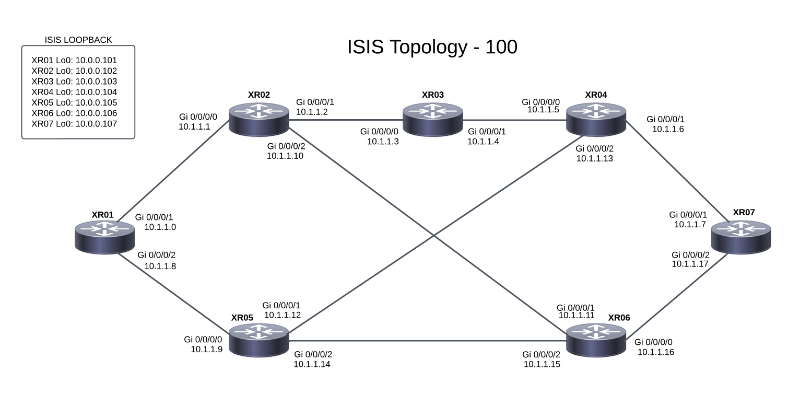
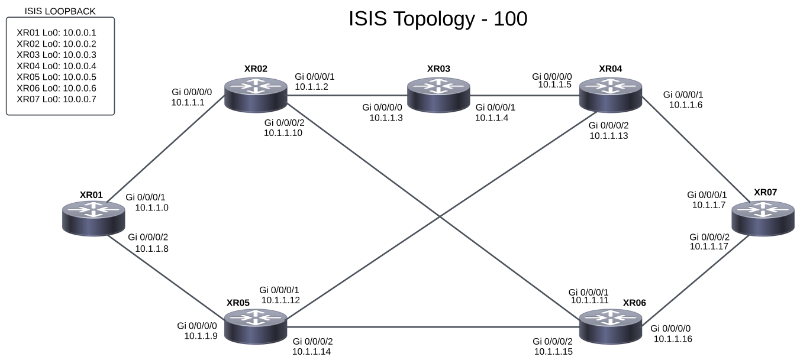
Updated all topology drawings.

diff --git a/lab_1/lab_1-guide.md b/lab_1/lab_1-guide.md
@@ -40,7 +40,7 @@ User: cisco Password: cisco123
 
 ### Management Network Topology
 
-![Lab Topology Small](/topo_drawings/management-network-medium.png)
+![Management Topology](/topo_drawings/management-network-medium.png)
 
 For full size image see [LINK](/topo_drawings/management-network.png)
 
@@ -246,3 +246,9 @@ The ISIS topology can be validated from any router. The command output will vary
     ```
 
 ## Validate BGP Topology
+
+In this lab we are using BGP for SRv6 route/community exchange. In the lab we are running as single AS 65000 with BGP running on xrd01, xrd05, xrd06, xrd07.  Routers xrd05 and xrd06 are functioning as route reflectors for the lab. The student will want to confirm that they see a full BGP topology.
+
+![BGP Topology](/topo_drawings/bgp-topology-medium.png)
+
+For full size image see [LINK](/topo_drawings/bgp-topology-large.png)

diff --git a/README.md b/README.md
@@ -62,7 +62,7 @@ This lab is based on a simulated WAN design of seven routers running in a docker
 seven routers in the topology is running the XR operating system. In addition there are two client VMs named Amsterdam and Rome. Each client 
 system is running the Ubuntu OS. Last is a VM running Kubernetes which is hosting the Jalapeno application
 
-![Lab Topology](/topo_drawings/lab-topology-overview.png)
+![Lab Topology](/topo_drawings/overview-topology.png)
 
 ## Remote Access
 
